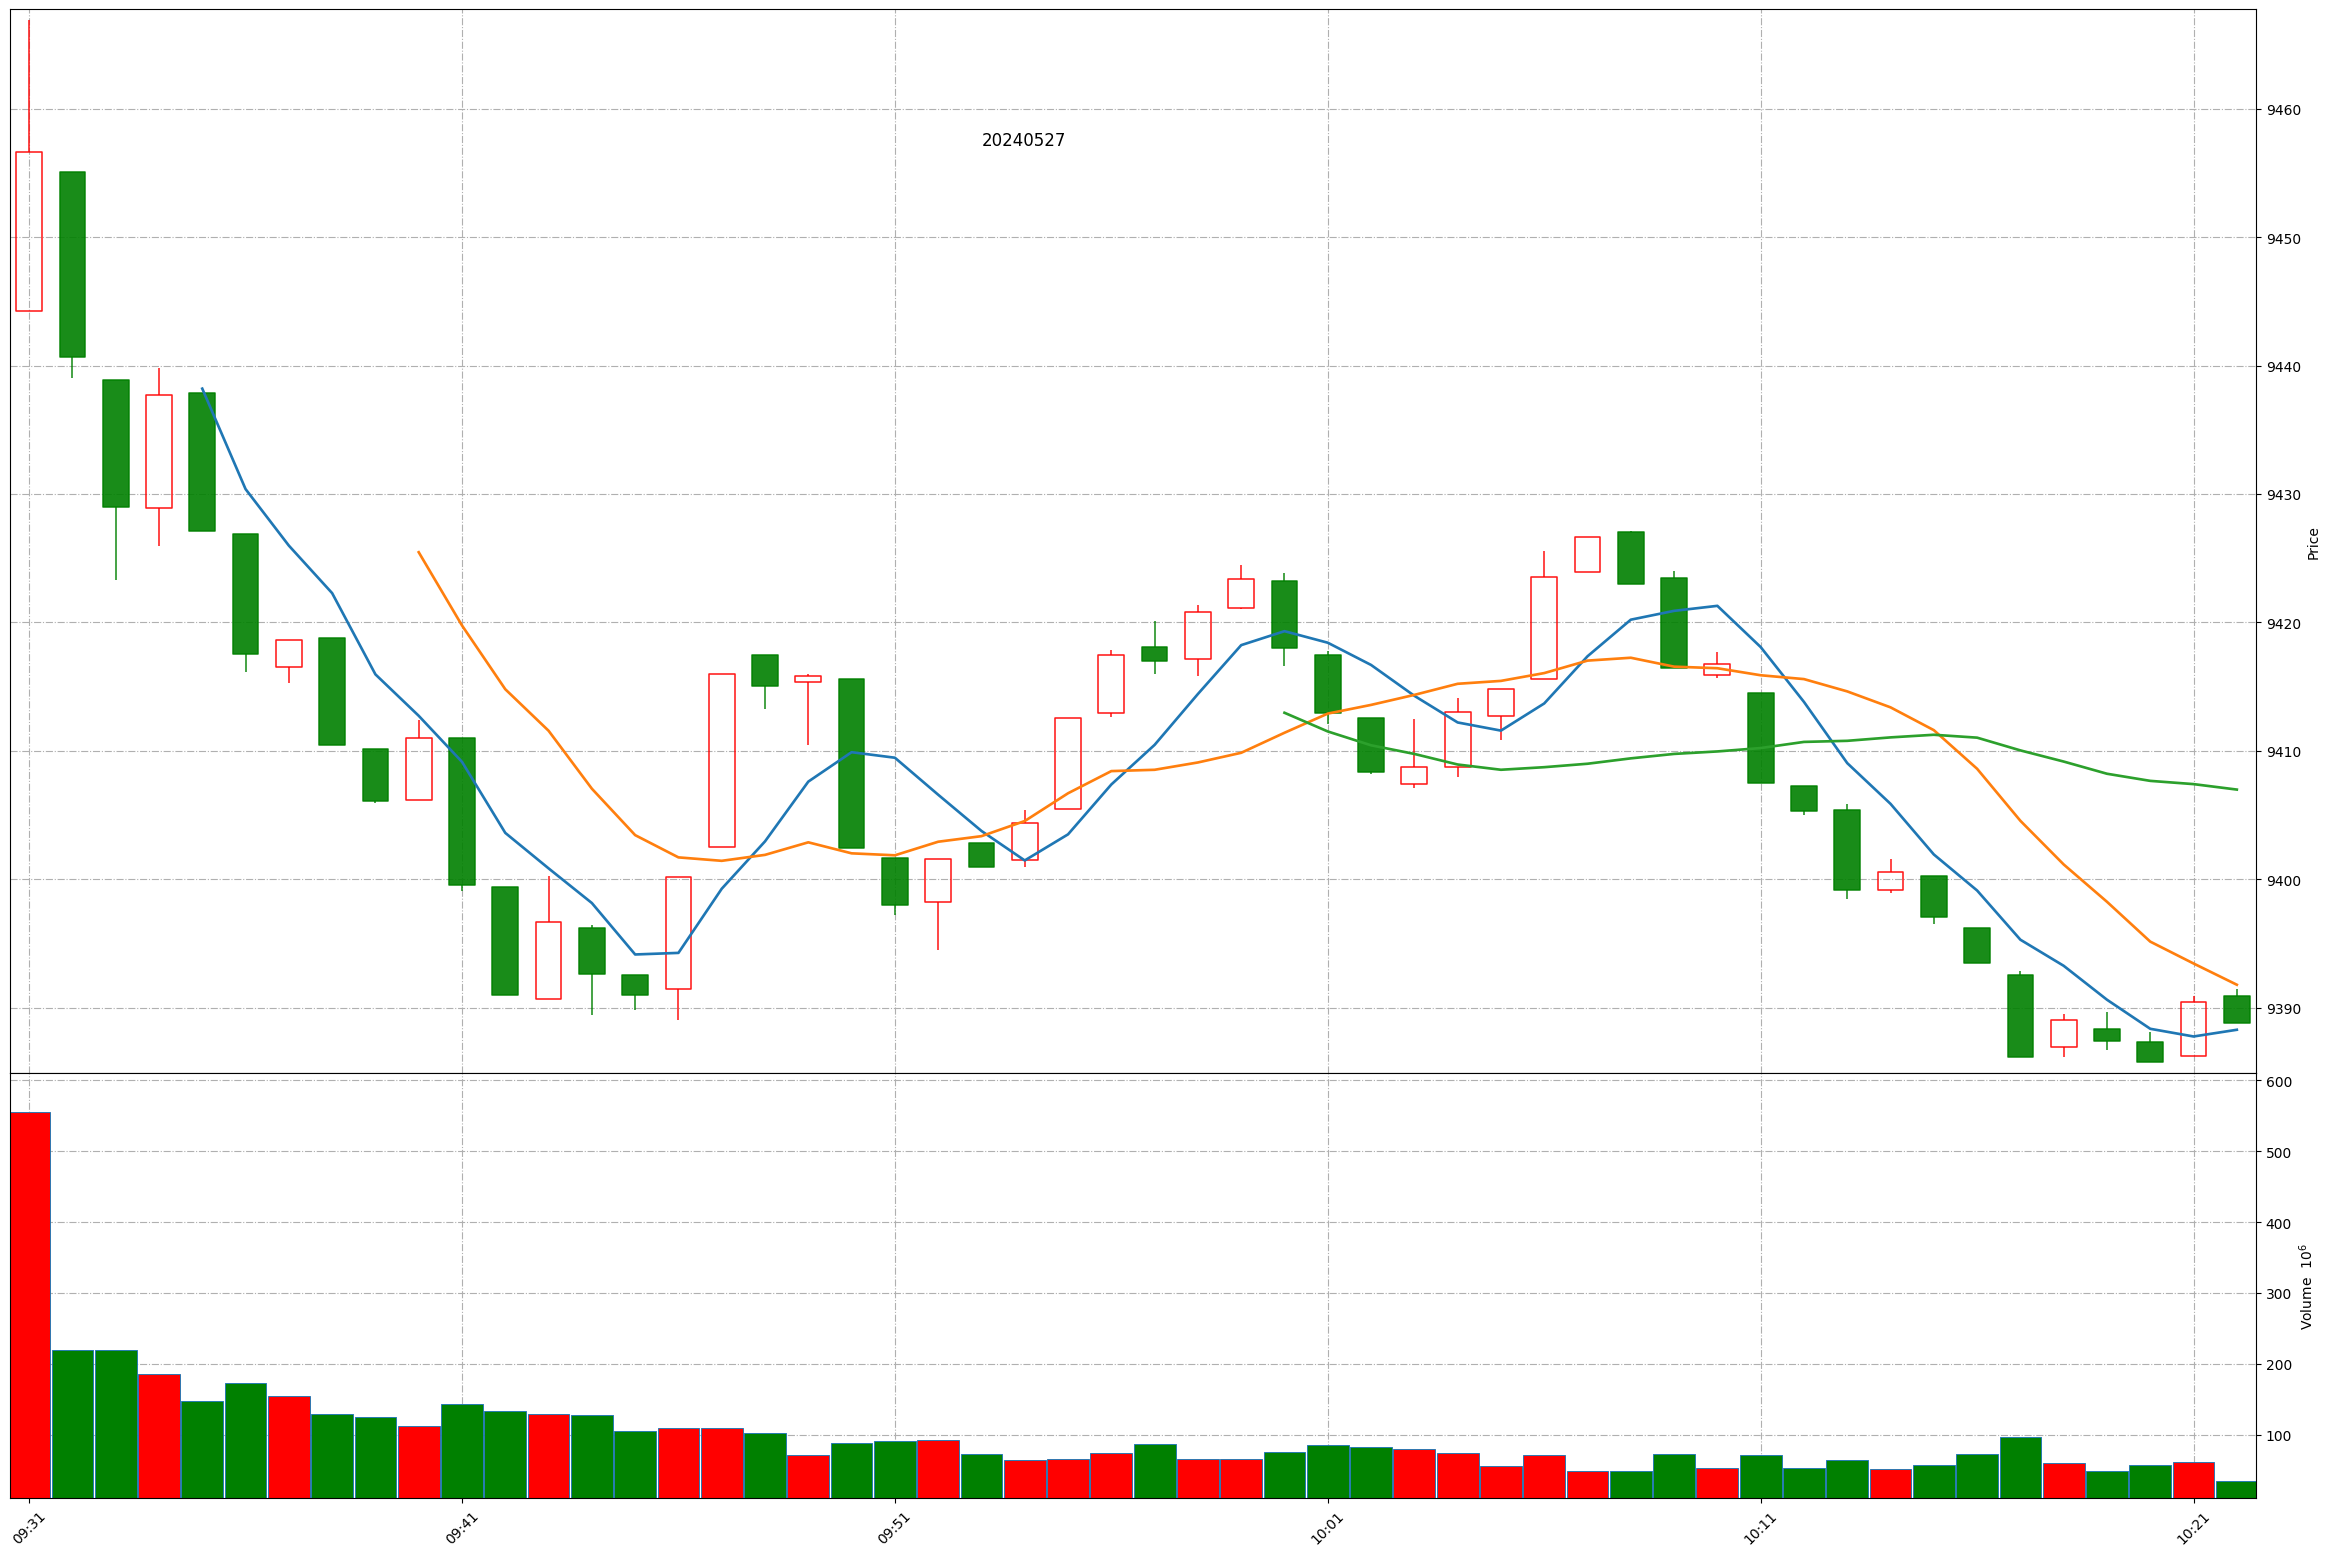
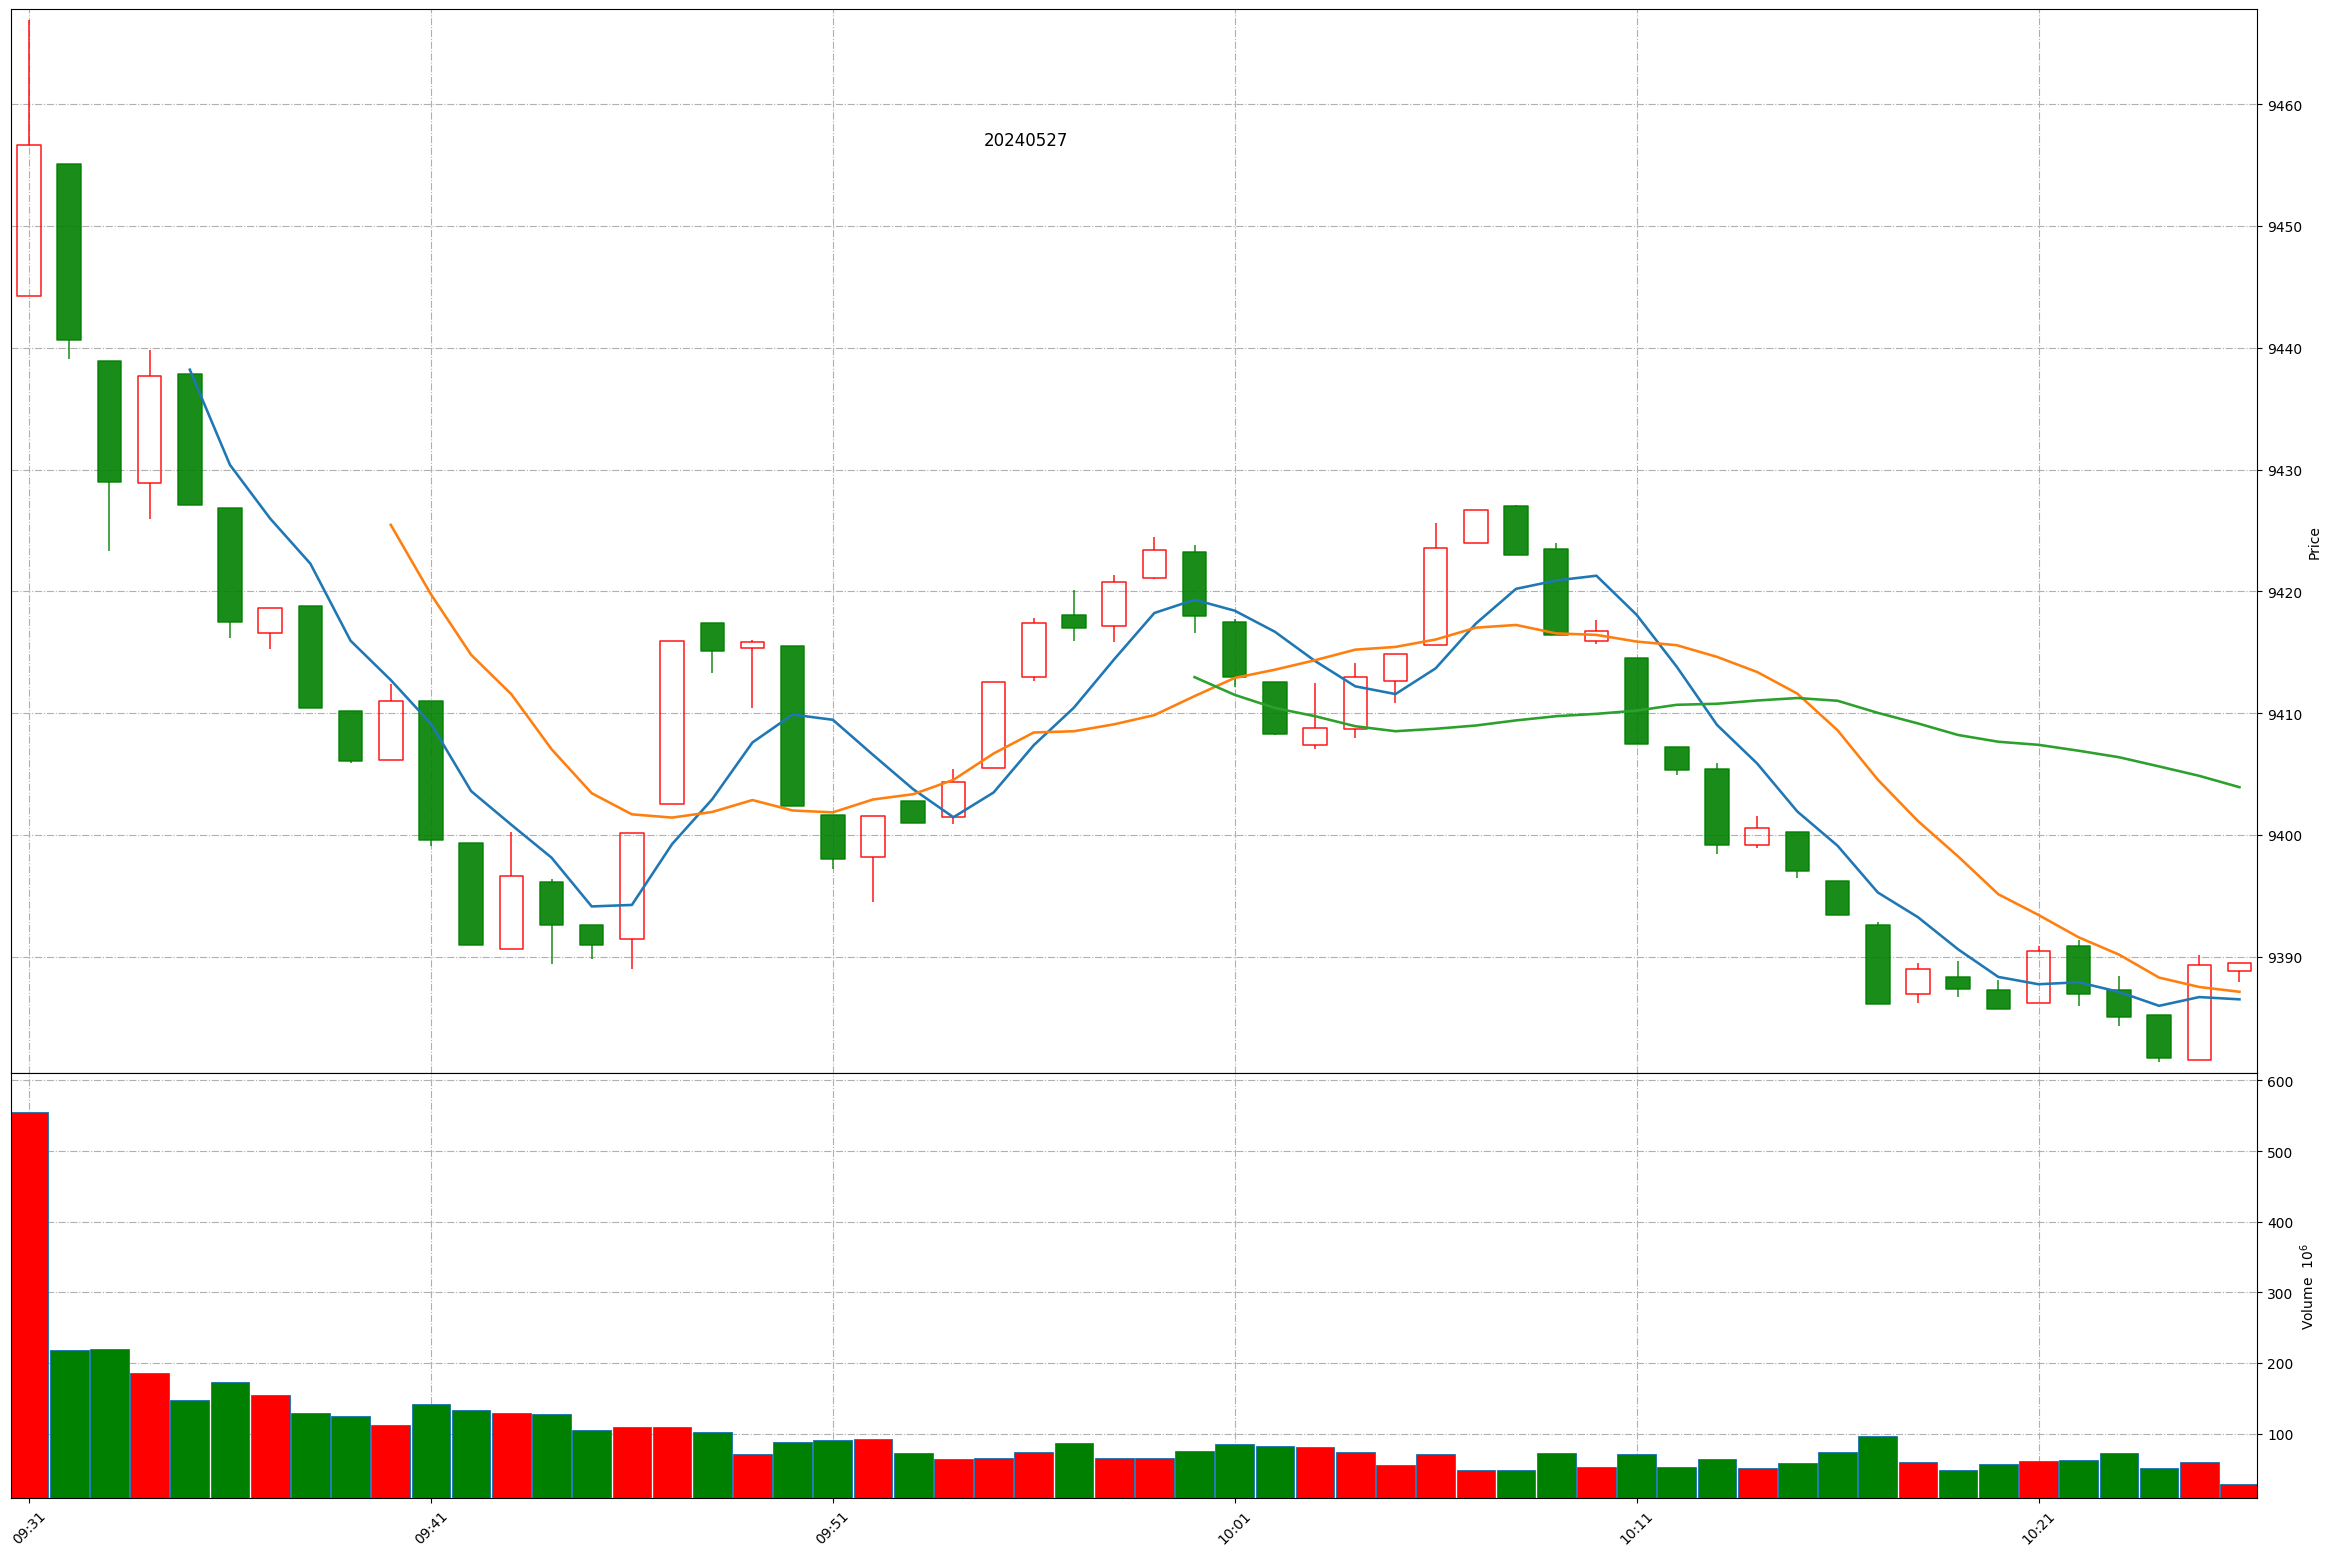
Github action update at 2024-05-27 10:25:47.

diff --git a/README.md b/README.md
@@ -1,11 +1,11 @@
 
 # Daily-A-share-market-quotes 每日 A 股指数（5min 更新）- 20240527
 
-### 上证指数 20240527 10:21
+### 上证指数 20240527 10:25
 ![](./fig/2024/5/20240527-sh000001.png)
 
-### 深证成指 20240527 10:21
+### 深证成指 20240527 10:25
 ![](./fig/2024/5/20240527-sz399001.png)
 
-### 北证50 20240527 10:21
+### 北证50 20240527 10:25
 ![](./fig/2024/5/20240527-bj899050.png)
